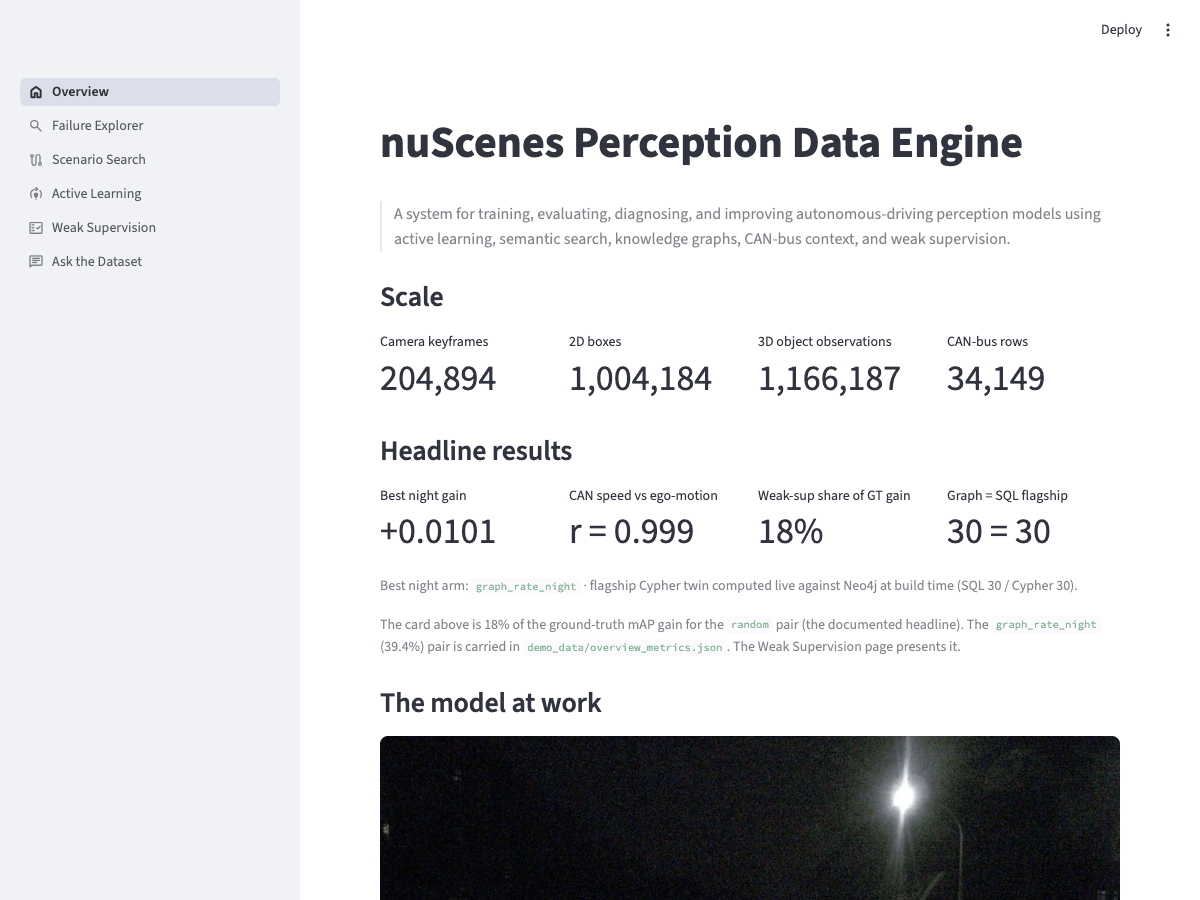
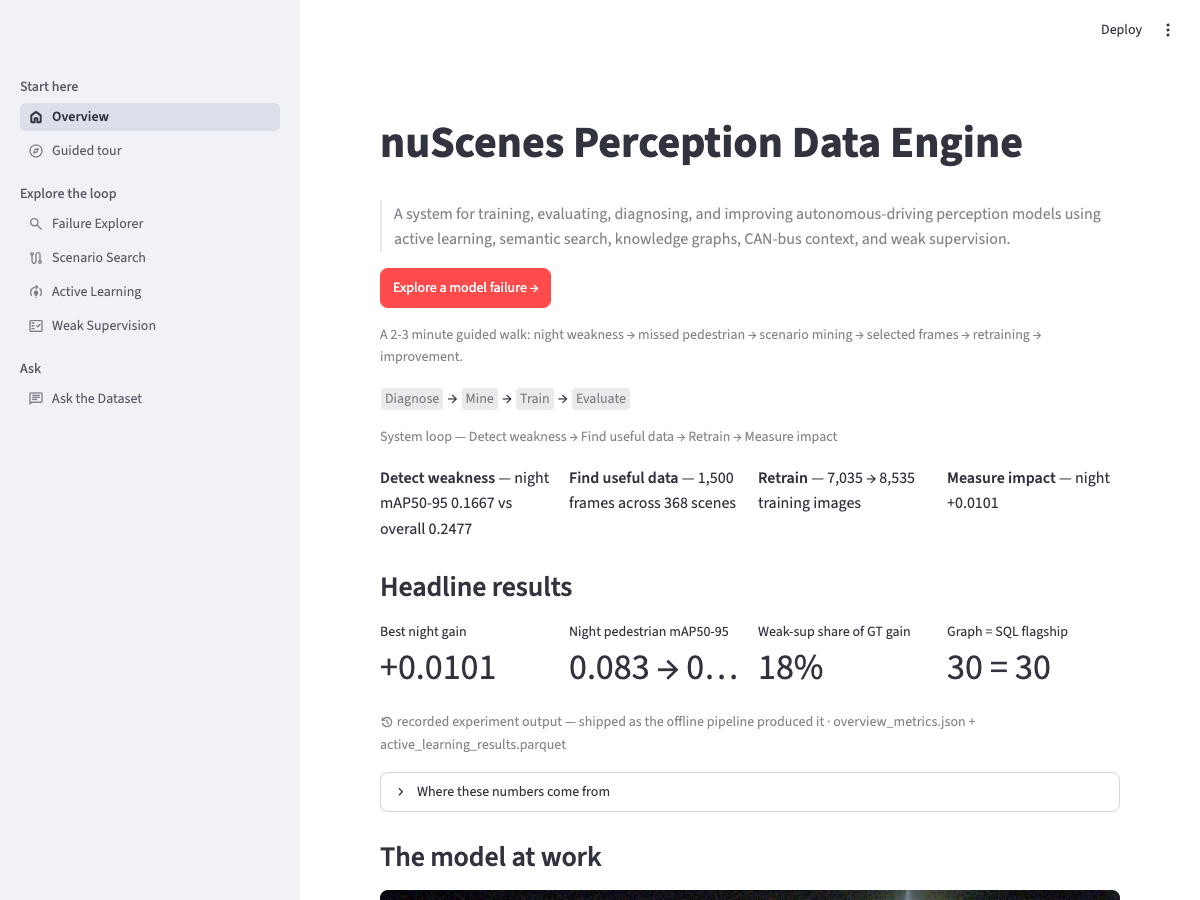
demo: Phase 9a screenshots (incl. guided tour) + success-walk local stamps
Seven captures from scripts/demo_screenshots.py on the committed v0.7 package
(tour, Overview and AL/weak at the page top; compression built into the script);
success-criteria walk rows remapped this phase stamped local: 2026-08-22 after the
browser walk of the tour (7 steps, deep links, 40 s scripted).

diff --git a/docs/DEMO.md b/docs/DEMO.md
@@ -572,16 +572,16 @@ deployed URL.
 
 | # | Question (DEMO_PLAN.md) | Page | Section / element that answers it | Status |
 |---|---|---|---|---|
-| 1 | What problem does the project solve? | Overview + Guided tour | the loop strip ("Detect weakness → Find useful data → Retrain → Measure impact") and tour step 1, **The weakness: night** | local: pending · live: pending |
-| 2 | Where does the baseline perception model fail? | Guided tour + Failure Explorer | tour step 2, **One missed pedestrian** (the hero frame, per-model claims), and Failure Explorer's **Detail** GT / Predictions / Overlay toggle | local: pending · live: pending |
-| 3 | How does the system find difficult data? | Guided tour + Scenario Search | tour step 3, **Find more like it** (the flagship event), and the six **preset** buttons + ranked card grid | local: pending · live: pending |
-| 4 | Why is the graph useful? | Scenario Search | the compact `parity_short` line in the event viewer header (visible once an event is opened — flagship 30 events found · SQL 30 / Graph 30 ✓), and the same viewer's **Interactive graph** panel with the matched path | local: pending · live: pending |
-| 5 | What does CAN-bus data add? | Scenario Search (+ Overview) | the event viewer's ego panel and t−2…t+2 **filmstrip** with per-step speed/accel readouts; Overview's **CAN speed vs ego-motion** card (r), now inside the **Dataset scale & data checks** expander | local: pending · live: pending |
-| 6 | How does active learning choose frames? | Guided tour + Active Learning | tour step 4, **Why this frame was picked** (the `selection_factors` panel), and the deep page's **Why was this frame selected?** per-frame factor panel | local: pending · live: pending |
-| 7 | Did targeted retraining improve performance? | Guided tour + Active Learning | tour steps 5-6, **Retrain on what was found** / **Same kind of frame, after**, plus the deep page's **Every arm, one chart** (13 arms in round order) and **Before / after** exemplars | local: pending · live: pending |
+| 1 | What problem does the project solve? | Overview + Guided tour | the loop strip ("Detect weakness → Find useful data → Retrain → Measure impact") and tour step 1, **The weakness: night** | local: 2026-08-22 · live: pending |
+| 2 | Where does the baseline perception model fail? | Guided tour + Failure Explorer | tour step 2, **One missed pedestrian** (the hero frame, per-model claims), and Failure Explorer's **Detail** GT / Predictions / Overlay toggle | local: 2026-08-22 · live: pending |
+| 3 | How does the system find difficult data? | Guided tour + Scenario Search | tour step 3, **Find more like it** (the flagship event), and the six **preset** buttons + ranked card grid | local: 2026-08-22 · live: pending |
+| 4 | Why is the graph useful? | Scenario Search | the compact `parity_short` line in the event viewer header (visible once an event is opened — flagship 30 events found · SQL 30 / Graph 30 ✓), and the same viewer's **Interactive graph** panel with the matched path | local: 2026-08-22 · live: pending |
+| 5 | What does CAN-bus data add? | Scenario Search (+ Overview) | the event viewer's ego panel and t−2…t+2 **filmstrip** with per-step speed/accel readouts; Overview's **CAN speed vs ego-motion** card (r), now inside the **Dataset scale & data checks** expander | local: 2026-08-22 · live: pending |
+| 6 | How does active learning choose frames? | Guided tour + Active Learning | tour step 4, **Why this frame was picked** (the `selection_factors` panel), and the deep page's **Why was this frame selected?** per-frame factor panel | local: 2026-08-22 · live: pending |
+| 7 | Did targeted retraining improve performance? | Guided tour + Active Learning | tour steps 5-6, **Retrain on what was found** / **Same kind of frame, after**, plus the deep page's **Every arm, one chart** (13 arms in round order) and **Before / after** exemplars | local: 2026-08-22 · live: pending |
 | 8 | How well did VLM-generated supervision work? | Weak Supervision | the retention cards (GT gain retained + verifier retention) and **What the VLM saw** accepted/rejected galleries | local: 2026-08-21 · live: pending |
 | 9 | Why did weak supervision underperform GT? | Weak Supervision | **Where the rest of the gain went** (dropped-frame cost vs label cost) and **What the verifier's rule selects for** (the crowding bias) | local: 2026-08-21 · live: pending |
-| 10 | How does the project form a closed model-improvement loop? | Guided tour + Active Learning + Weak Supervision | tour step 7, **What we found, added, gained — and what failed**, closed by the persistent loop breadcrumb on every page | local: pending · live: pending |
+| 10 | How does the project form a closed model-improvement loop? | Guided tour + Active Learning + Weak Supervision | tour step 7, **What we found, added, gained — and what failed**, closed by the persistent loop breadcrumb on every page | local: 2026-08-22 · live: pending |
 
 ## Dataset attribution & license
 
